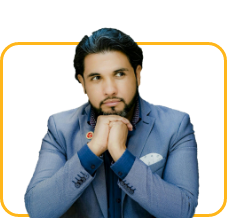
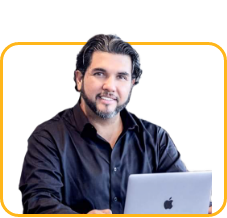
fix: typos and team picture

diff --git a/src/index.html b/src/index.html
@@ -107,7 +107,7 @@
                                 protocol, they start getting preys instantly, a
                                 variable interest corresponding to the asset
                                 invested.<br />
-                                <br />The preys accumulate via BUBO interest,
+                                <br />The preys accumulate in BUBO interest,
                                 where hunters can withdraw their preys invested
                                 and the interest generated at any moment.
                             </p>
@@ -140,7 +140,7 @@
                             <div class="flex items-center justify-between">
                                 <div>
                                     <p>Token Symbol</p>
-                                    <p class="text-primary">BUBO</p>
+                                    <p class="text-primary">GBT</p>
                                 </div>
                                 <img
                                     src="../assets/img/token.png"
@@ -272,7 +272,7 @@
                                 GBT Total
                                 <span class="text-primary">Supppy</span>
                             </p>
-                            <p class="text-gray">11,111,111 GBT Tokens</p>
+                            <p class="text-gray">111,111,111 BUBO Tokens</p>
                         </div>
                     </div>
 
@@ -367,7 +367,6 @@
             </section>
 
             <!-- **** Partners section *** -->
-
             <section class="section bg-gray-dark">
                 <h6 class="text-3xl mb-4 lg:text-center lg:py-20">
                     Our <span class="text-primary">partners</span>
@@ -419,7 +418,7 @@
                             />
                             <p class="font-bold">Refugio Aguilera</p>
                             <p class="text-gray whitespace-nowrap">
-                                CCO, Chief Communication Officer
+                            CCO, Chief <br />Communication Officer
                             </p>
                         </div>
                     </div>
